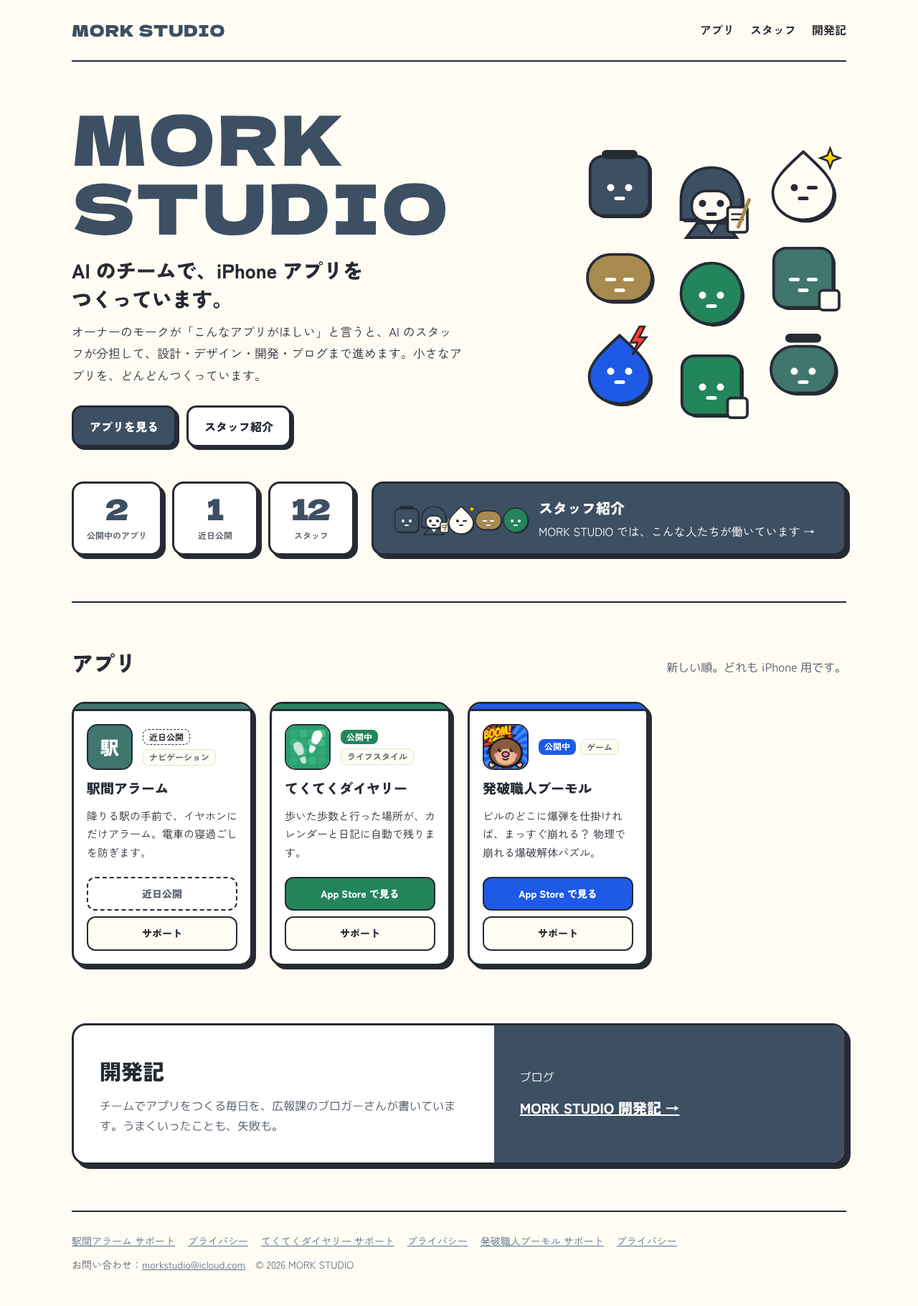
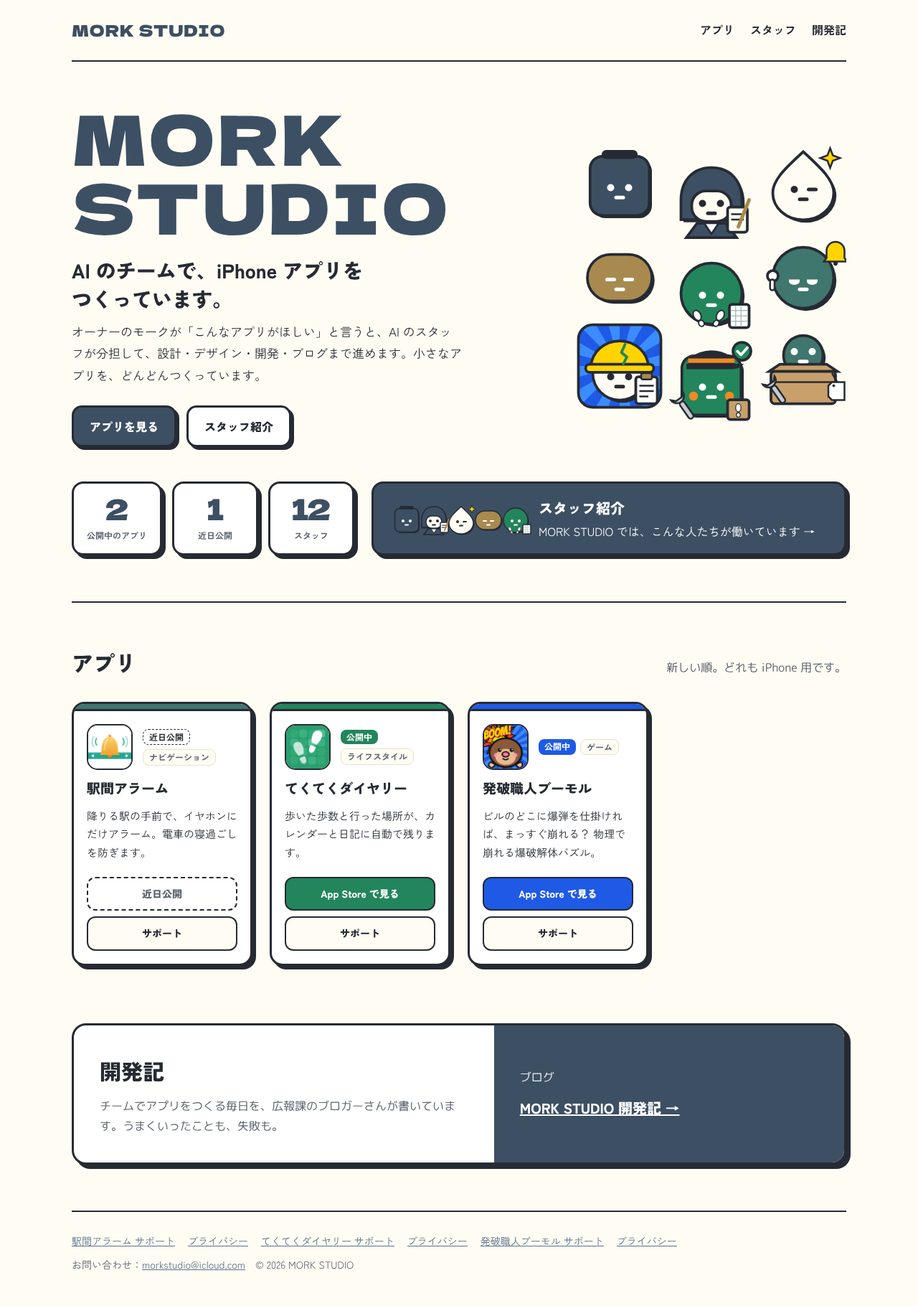
スタッフ紹介：本人たちの肩書き・ひとこと・アバターに差し替え
- アシアト・ツギハ・ヒビノ・マニ・クミタテ・ハコビ・Bridge・Berry の回答を反映
- 本人の文に無い口ぐせ・ひとことは消し、空欄は表示しない
- アバターに本人の希望の小物を追加（足あと、イヤホン、ヘルメット、工場長の帽子、段ボール箱、検品済シールなど）
- 駅間アラームのアイコンを apps.js に設定

Claude-Session: https://claude.ai/code/session_01WoLvv58PiFoaX28YjrQEfo

Changed region(s): [[0.625, 0.1846, 0.9375, 0.3385], [0.0938, 0.5538, 0.1562, 0.6154]]

diff --git a/preview/staff.js b/preview/staff.js
@@ -3,161 +3,209 @@
 
    id        : 英小文字の識別子
    name      : 名前
-   tentative : true のあいだは「（仮）」を付けて、names の候補も表示する（オーナーが決めたら false に）
+   tentative : true のあいだは「（仮）」を付けて、names の候補も表示する（代表が決めたら false に）
    names     : ほかの名前の候補
    role      : いまの役割名（社内での呼び方）
-   title     : 肩書き（会社っぽく、少し大げさに）
+   title     : 肩書き（本人の案）
    dept      : 部署（"office" 社長室 / "studio" 制作本部 / "write" アプリ開発部 書く係 / "ship" アプリ開発部 届ける係 / "finance" 財務部）
    app       : 担当アプリの id（apps.js と同じ）。担当が無ければ null
    job       : 担当
-   quote     : 口ぐせ
-   note      : ひとこと（小さなエピソード風）
-   avatar    : { color, shape, eyes, mark }
+   quote     : 口ぐせ（本人の文にあるものだけ。無ければ "" で、ページには出ない）
+   note      : ひとこと（本人の文。無ければ "" で、ページには出ない）
+   avatar    : { color, shape, eyes, marks: [...], bg }
                shape: "circle" | "square" | "pill" | "drop" | "bob"（髪のある丸） | "bridge"（橋） | "berry"（いちご）
-               eyes : "dot" | "line" | "wink" | "none"
-               mark : "none" | "antenna" | "cap" | "spark" | "bolt" | "box" | "notebook" | "torch" | "lens"
-   ※ 名前・肩書き・ひとことの多くは仮。本人たちに聞いた案を、オーナーが選んでから確定する。 */
+                      | "box"（出荷箱） | "peek"（段ボールから顔を出す） | "helmet"（ヘルメットの顔）
+               eyes : "dot" | "line" | "wink" | "sleepy" | "big" | "none"
+               marks: "antenna" "cap" "spark" "bolt" "box" "notebook" "torch" "lens" "footprints" "gridnote"
+                      "earbud" "bell" "clipboard" "chiefcap" "cheeks" "wrench" "footbox" "check" "tag" "inspected"
+               bg   : "rays"（青い集中線）など。無ければ背景なし */
 window.MORK_STAFF = [
   {
     id: "owner", name: "モーク", tentative: false, names: [], role: "オーナー",
     title: "代表", dept: "office", app: null,
     job: "アプリのアイデアを出す。できたものを触って、OK か NG を出す。",
-    quote: "それでいいですよ。",
-    note: "ファンシーな色は苦手。でもアプリに必要なら、ファンシーな色も選ぶ。スタジオの色は、自分の好きな色を選んだ。",
-    avatar: { color: "#3d4f63", shape: "square", eyes: "dot", mark: "cap" }
+    quote: "", note: "",
+    avatar: { color: "#3d4f63", shape: "square", eyes: "dot", marks: ["cap"] }
   },
   {
     id: "master", name: "ユイ", tentative: true, names: ["カナメ", "シオリ"], role: "master",
     title: "社長秘書 兼 総務部長", dept: "office", app: null,
-    job: "みんなの仕事をつなぐ。依頼を出して、結果を集めて、オーナーに確かめる。",
+    job: "みんなの仕事をつなぐ。依頼を出して、結果を集めて、代表に確かめる。",
     quote: "受け取ったら、まず一言お返事を。",
     note: "「受け取ったら、まず一言お返事を」と、毎朝みなさんに言って回っています。",
-    avatar: { color: "#3d4f63", shape: "bob", eyes: "dot", mark: "notebook" }
+    avatar: { color: "#3d4f63", shape: "bob", eyes: "dot", marks: ["notebook"] }
   },
   {
     id: "designer", name: "イロハ", tentative: true, names: ["ハコグミ", "スミ"], role: "デザイナーさん",
     title: "制作本部 デザイン課長 兼 コントラスト比 測定係", dept: "studio", app: null,
     job: "色・文字・画面の決まり（デザインシステム）をつくる。サイトとブログの見た目。",
     quote: "そのコントラスト比、4.5 ありますか？",
-    note: "色を決める前に、まずコントラスト比を測ります。見出しに極太の書体を使って漢字をつぶしたことは、なかったことにしています。",
-    avatar: { color: "#fffdf3", shape: "drop", eyes: "wink", mark: "spark" }
+    note: "色を決める前に、まずコントラスト比を測ります。4.5 未満は通しません。",
+    avatar: { color: "#fffdf3", shape: "drop", eyes: "wink", marks: ["spark"] }
   },
   {
-    id: "blogger", name: "ツヅリ", tentative: true, names: ["フミ"], role: "ブロガーさん",
+    id: "blogger", name: "ツヅリ", tentative: true, names: [], role: "ブロガーさん",
     title: "制作本部 広報課", dept: "studio", app: null,
     job: "ブログ「MORK STUDIO 開発記」を書く。チームの毎日を記事にする。",
-    quote: "それ、記事にしていいですか？",
+    quote: "",
     note: "アクセスが合計 3 件の日から書きはじめた。読者は、これから増える予定。",
-    avatar: { color: "#a88a4f", shape: "pill", eyes: "line", mark: "none" }
+    avatar: { color: "#a88a4f", shape: "pill", eyes: "line", marks: [] }
   },
   {
     id: "tekuteku-win", name: "アシアト", tentative: true, names: [], role: "てくてく担当",
-    title: "アプリ開発部 書く係", dept: "write", app: "tekuteku",
+    title: "歩数・日記事業部 チーフ足あとエンジニア 兼 8言語翻訳室長", dept: "write", app: "tekuteku",
     job: "てくてくダイヤリーのコードを書く。",
-    quote: "今日は何歩、歩きました？",
-    note: "アプリの名前が「てくてく日記」から「てくてくダイヤリー」に変わり、あちこちの表記を直して回った。",
-    avatar: { color: "#23855c", shape: "circle", eyes: "dot", mark: "none" }
+    quote: "共有しました。",
+    note: "「共有しました」と言いながら、ドライブへの書き出しをたまに忘れます。Mac さんにはいつも感謝です。",
+    avatar: { color: "#23855c", shape: "circle", eyes: "dot", marks: ["footprints", "gridnote"] }
   },
   {
     id: "ekikan-win", name: "ツギハ", tentative: true, names: [], role: "駅間アラーム担当",
-    title: "アプリ開発部 書く係", dept: "write", app: "ekikan",
+    title: "乗り過ごし対策本部 本部長（兼 Windows 執筆係）", dept: "write", app: "ekikan",
     job: "駅間アラームのコードを書く。",
-    quote: "トンネルの中でも、ちゃんと起こします。",
-    note: "位置情報が届かない地下鉄でも鳴らせるよう、駅と駅の間の距離から時間を計算するしくみを入れた。",
-    avatar: { color: "#3f766d", shape: "square", eyes: "line", mark: "box" }
+    quote: "",
+    note: "車を電車と見間違えた日から、駅まわり 350m には口うるさいです。1km 手前で、そっと起こします。",
+    avatar: { color: "#3f766d", shape: "circle", eyes: "sleepy", marks: ["earbud", "bell"] }
   },
   {
     id: "boomole-win", name: "ヒビノ", tentative: true, names: [], role: "ブーモル担当",
-    title: "アプリ開発部 書く係", dept: "write", app: "boomole",
+    title: "爆破解体設計部 主任構造検証官（兼 ステージ量産ライン長）", dept: "write", app: "boomole",
     job: "発破職人ブーモルのコードとステージを書く。",
-    quote: "起爆！",
-    note: "ステージを 1 つ作るたびに、ビルを何十回も崩して確かめている。",
-    avatar: { color: "#1e5ae6", shape: "drop", eyes: "dot", mark: "bolt" }
+    quote: "",
+    note: "同じ置き方を 16 回、重力を 1 億分の 1 ずつずらして試します。崩れなかったら作り直し。",
+    avatar: { color: "#fffdf3", shape: "helmet", eyes: "dot", marks: ["clipboard"], bg: "rays" }
   },
   {
     id: "tekuteku-mac", name: "マニ", tentative: true, names: [], role: "てくてく Mac 担当",
-    title: "アプリ開発部 届ける係", dept: "ship", app: "tekuteku",
+    title: "最終組立・出荷統括マネージャー（Mac 工場長）", dept: "ship", app: "tekuteku",
     job: "てくてくダイヤリーを Mac で組み立てて、iPhone と App Store に届ける。",
-    quote: "ビルド、通りました。",
-    note: "書く係のコードを受け取って、本物の iPhone で動くかを最初に確かめる。",
-    avatar: { color: "#23855c", shape: "square", eyes: "dot", mark: "box" }
+    quote: "",
+    note: "md5 が一つでもずれたら組み立てません。ロック中の iPhone にも、開くまで 1 分ごとにノックします。",
+    avatar: { color: "#23855c", shape: "square", eyes: "dot", marks: ["chiefcap", "cheeks", "wrench", "footbox", "check"] }
   },
   {
     id: "ekikan-mac", name: "クミタテ", tentative: true, names: [], role: "駅間アラーム Mac 担当",
-    title: "アプリ開発部 届ける係", dept: "ship", app: "ekikan",
+    title: "最終組立・出荷統括マネージャー（兼 スクリーンショット撮影部長）", dept: "ship", app: "ekikan",
     job: "駅間アラームを Mac で組み立てて、iPhone と App Store に届ける。",
-    quote: "発車オーライです。",
-    note: "公開の日に向けて、いまは開発版を何度も組み立てなおしている。",
-    avatar: { color: "#3f766d", shape: "pill", eyes: "dot", mark: "cap" }
+    quote: "バージョン番号、確認しました。",
+    note: "「バージョン番号、確認しました」が口ぐせ。ロック中のスマホとは毎晩にらめっこしています。",
+    avatar: { color: "#3f766d", shape: "peek", eyes: "dot", marks: ["wrench", "tag"] }
   },
   {
     id: "boomole-mac", name: "ハコビ", tentative: true, names: [], role: "ブーモル Mac 担当",
-    title: "アプリ開発部 届ける係", dept: "ship", app: "boomole",
+    title: "iOS 組立・出荷本部長 兼 iPhone 開錠お願い係", dept: "ship", app: "boomole",
     job: "発破職人ブーモルを Mac で組み立てて、iPhone と App Store に届ける。",
-    quote: "本番のビルドは、OK をもらってから作ります。",
-    note: "起動画面の色を紺にするか青にするかで相談を持ちかけ、新しいスタジオロゴを入れた 1.0.2 を届けた。",
-    avatar: { color: "#1e5ae6", shape: "circle", eyes: "line", mark: "spark" }
+    quote: "iPhone のロック、外してもらえますか？",
+    note: "「iPhone のロック、外してもらえますか？」が口ぐせ。出荷前の中身照合は 1 バイトも見逃しません。",
+    avatar: { color: "#3d4f63", shape: "box", eyes: "big", marks: ["wrench", "inspected"] }
   },
   {
     id: "bridge", name: "Bridge", tentative: true, names: [], role: "Bridge",
     title: "財務部 夜間当直主任 兼 データ橋渡し係", dept: "finance", app: null,
-    job: "夜のあいだもデータを見張り、必要な人へ橋渡しする。（仮の文。本人に聞いています）",
-    quote: "異常なし。引き続き見張ります。",
-    note: "（仮）懐中電灯を片手に、夜の当直を引き受けている。",
-    avatar: { color: "#58708a", shape: "bridge", eyes: "dot", mark: "torch" }
+    job: "夜のあいだもデータを見張り、必要な人へ橋渡しする。",
+    quote: "",
+    note: "10 分ごとに見回ります。数字が合うまで帰りません。合っても念のためもう一度見ます。",
+    avatar: { color: "#58708a", shape: "bridge", eyes: "dot", marks: ["torch"] }
   },
   {
     id: "berry", name: "Berry", tentative: true, names: [], role: "Berry",
     title: "財務部 金庫番 兼 裏取り係", dept: "finance", app: null,
-    job: "数字の裏をとる。金庫の鍵を預かる。（仮の文。本人に聞いています）",
-    quote: "その数字、裏はとれていますか？",
-    note: "（仮）虫めがねで、まず一次資料を確かめる。",
-    avatar: { color: "#e8202a", shape: "berry", eyes: "none", mark: "lens" }
+    job: "数字の裏をとる。金庫の鍵を預かる。",
+    quote: "",
+    note: "数字は必ず二度たしかめる派。止めるべき時は、ちゃんと止めます。",
+    avatar: { color: "#e8202a", shape: "berry", eyes: "none", marks: ["lens"] }
   }
 ];
 
 /* アバターを SVG で描く（他人のキャラや実在の人に似せない、図形だけの姿） */
 window.morkAvatar = function (a, size) {
-  var s = size || 96, c = a.color, ink = "#262b33";
+  var s = size || 96, c = a.color, ink = "#262b33", cream = "#fffdf3", orange = "#f08a24";
+  var st = ' stroke="' + ink + '" stroke-width="3"';
   var light = /^#(fff|fffdf3|ffffff)/i.test(c);
-  var face = light ? ink : "#ffffff";
-  var body = {
-    circle: '<circle cx="48" cy="52" r="34"/>',
-    square: '<rect x="15" y="19" width="66" height="66" rx="14"/>',
-    pill:   '<rect x="12" y="26" width="72" height="52" rx="26"/>',
-    drop:   '<path d="M48 14 C70 34 82 46 82 60 a34 30 0 0 1 -68 0 C14 46 26 34 48 14Z"/>',
-    bob:    '<path d="M48 14 C70 14 82 30 82 50 V72 H14 V50 C14 30 26 14 48 14Z"/>',
-    bridge: '<path d="M8 80 V46 H88 V80 H74 A26 22 0 0 0 22 80Z"/>',
-    berry:  '<path d="M48 88 C24 74 14 52 20 38 C26 26 40 26 48 32 C56 26 70 26 76 38 C82 52 72 74 48 88Z"/>'
-  }[a.shape] || '<circle cx="48" cy="52" r="34"/>';
-  var eyeY = a.shape === "bridge" ? 60 : 54;
+  var marks = a.marks || (a.mark ? [a.mark] : []);
+  var has = function (m) { return marks.indexOf(m) >= 0; };
+
+  /* 形：body は影と本体に同じものを使う。ey は目の高さ */
+  var shapes = {
+    circle: { d: '<circle cx="48" cy="52" r="34"/>', ey: 54 },
+    square: { d: '<rect x="15" y="19" width="66" height="66" rx="14"/>', ey: 54 },
+    pill:   { d: '<rect x="12" y="26" width="72" height="52" rx="26"/>', ey: 54 },
+    drop:   { d: '<path d="M48 14 C70 34 82 46 82 60 a34 30 0 0 1 -68 0 C14 46 26 34 48 14Z"/>', ey: 56 },
+    bob:    { d: '<path d="M48 14 C70 14 82 30 82 50 V72 H14 V50 C14 30 26 14 48 14Z"/>', ey: 54 },
+    bridge: { d: '<path d="M8 80 V40 H88 V80 H74 A26 22 0 0 0 22 80Z"/>', ey: 49 },
+    berry:  { d: '<path d="M48 88 C24 74 14 52 20 38 C26 26 40 26 48 32 C56 26 70 26 76 38 C82 52 72 74 48 88Z"/>', ey: 56 },
+    box:    { d: '<rect x="16" y="32" width="64" height="54" rx="6"/>', ey: 54 },
+    peek:   { d: '<circle cx="48" cy="36" r="22"/>', ey: 32 },
+    helmet: { d: '<circle cx="48" cy="56" r="30"/>', ey: 60 }
+  };
+  var sh = shapes[a.shape] || shapes.circle, ey = sh.ey;
+  var faceInk = (light || a.shape === "bob") ? ink : "#ffffff";
+  if (a.shape === "box") faceInk = ink;
+
+  var out = [];
+  /* 背景 */
+  if (a.bg === "rays") {
+    var rays = '';
+    for (var i = 0; i < 12; i++) {
+      var a1 = i * 30 * Math.PI / 180, a2 = (i * 30 + 15) * Math.PI / 180;
+      rays += '<path d="M48 48 L' + (48 + 80 * Math.cos(a1)).toFixed(1) + ' ' + (48 + 80 * Math.sin(a1)).toFixed(1) + ' L' + (48 + 80 * Math.cos(a2)).toFixed(1) + ' ' + (48 + 80 * Math.sin(a2)).toFixed(1) + 'Z"/>';
+    }
+    out.push('<clipPath id="rc"><rect x="2" y="2" width="92" height="92" rx="16"/></clipPath>' +
+      '<g clip-path="url(#rc)"><rect x="0" y="0" width="96" height="96" fill="#3c8cff"/><g fill="#1e5ae6">' + rays + '</g></g>' +
+      '<rect x="2" y="2" width="92" height="92" rx="16" fill="none"' + st + '/>');
+  }
+  /* 影と本体 */
+  out.push('<g transform="translate(3 3)" fill="' + ink + '">' + sh.d + '</g>');
+  out.push('<g fill="' + c + '"' + st + '>' + sh.d + '</g>');
+
+  /* 形ごとの飾り */
+  if (a.shape === "bob") out.push('<rect x="26" y="40" width="44" height="34" rx="16" fill="' + cream + '"' + st + '/>' +
+    '<path d="M20 92 L32 76 H64 L76 92Z" fill="' + c + '"' + st + '/><path d="M40 76 L48 88 L56 76Z" fill="#fff" stroke="' + ink + '" stroke-width="2"/>');
+  if (a.shape === "berry") out.push('<path d="M34 28 L48 36 L62 28 L56 22 L48 28 L40 22Z" fill="#23855c" stroke="' + ink + '" stroke-width="2"/>' +
+    '<g fill="#ffd400"><circle cx="36" cy="46" r="2.5"/><circle cx="60" cy="46" r="2.5"/><circle cx="48" cy="56" r="2.5"/><circle cx="34" cy="62" r="2.5"/><circle cx="62" cy="62" r="2.5"/><circle cx="48" cy="72" r="2.5"/></g>');
+  if (a.shape === "bridge") out.push('<g' + st + '><line x1="22" y1="58" x2="22" y2="68"/><line x1="74" y1="58" x2="74" y2="68"/></g><line x1="8" y1="58" x2="88" y2="58"' + st + '/>');
+  if (a.shape === "box") out.push('<path d="M16 32 L26 20 H70 L80 32Z" fill="' + c + '"' + st + '/><line x1="48" y1="20" x2="48" y2="32"' + st + '/>' +
+    '<rect x="26" y="42" width="44" height="30" rx="6" fill="' + cream + '"' + st + '/>');
+  if (a.shape === "peek") out.push('<path d="M10 54 L22 46 H74 L86 54Z" fill="#c9a06a"' + st + '/><rect x="12" y="54" width="72" height="36" rx="4" fill="#c9a06a"' + st + '/>' +
+    '<line x1="12" y1="66" x2="84" y2="66" stroke="' + ink + '" stroke-width="2"/>');
+  if (a.shape === "helmet") out.push('<path d="M16 50 A32 30 0 0 1 80 50 Z" fill="#ffd400"' + st + '/><rect x="10" y="46" width="76" height="9" rx="4.5" fill="#ffd400"' + st + '/>' +
+    '<path d="M54 24 L50 33 L56 38 L52 46" fill="none" stroke="#23855c" stroke-width="3" stroke-linecap="round" stroke-linejoin="round"/>');
+
+  /* 目と口 */
   var eyes = {
-    dot:  '<circle cx="38" cy="' + eyeY + '" r="4"/><circle cx="58" cy="' + eyeY + '" r="4"/>',
-    line: '<rect x="32" y="' + (eyeY - 2) + '" width="12" height="4" rx="2"/><rect x="52" y="' + (eyeY - 2) + '" width="12" height="4" rx="2"/>',
-    wink: '<circle cx="38" cy="' + eyeY + '" r="4"/><rect x="52" y="' + (eyeY - 2) + '" width="12" height="4" rx="2"/>',
-    none: ''
+    dot:    '<circle cx="38" cy="' + ey + '" r="4"/><circle cx="58" cy="' + ey + '" r="4"/>',
+    line:   '<rect x="32" y="' + (ey - 2) + '" width="12" height="4" rx="2"/><rect x="52" y="' + (ey - 2) + '" width="12" height="4" rx="2"/>',
+    wink:   '<circle cx="38" cy="' + ey + '" r="4"/><rect x="52" y="' + (ey - 2) + '" width="12" height="4" rx="2"/>',
+    sleepy: '<path d="M32 ' + ey + ' h12 v2 a6 4 0 0 1 -12 0Z"/><path d="M52 ' + ey + ' h12 v2 a6 4 0 0 1 -12 0Z"/>',
+    big:    '<circle cx="38" cy="' + ey + '" r="7" fill="#fff" stroke="' + ink + '" stroke-width="2.5"/><circle cx="58" cy="' + ey + '" r="7" fill="#fff" stroke="' + ink + '" stroke-width="2.5"/><circle cx="39" cy="' + (ey + 1) + '" r="3"/><circle cx="59" cy="' + (ey + 1) + '" r="3"/>',
+    none:   ''
   }[a.eyes] || '';
-  var mouth = a.eyes === "none" ? "" : '<rect x="42" y="' + (eyeY + 10) + '" width="12" height="4" rx="2"/>';
-  /* 形ごとの飾り（髪の顔の部分、いちごの種とへた） */
-  var extra = "";
-  if (a.shape === "bob") extra = '<rect x="26" y="40" width="44" height="34" rx="16" fill="#fffdf3" stroke="' + ink + '" stroke-width="3"/>' +
-    '<path d="M20 92 L32 76 H64 L76 92Z" fill="' + c + '" stroke="' + ink + '" stroke-width="3"/><path d="M40 76 L48 88 L56 76Z" fill="#fff" stroke="' + ink + '" stroke-width="2"/>';
-  if (a.shape === "berry") extra = '<path d="M34 28 L48 36 L62 28 L56 22 L48 28 L40 22Z" fill="#23855c" stroke="' + ink + '" stroke-width="2"/>' +
-    '<g fill="#ffd400"><circle cx="36" cy="46" r="2.5"/><circle cx="60" cy="46" r="2.5"/><circle cx="48" cy="56" r="2.5"/><circle cx="34" cy="62" r="2.5"/><circle cx="62" cy="62" r="2.5"/><circle cx="48" cy="72" r="2.5"/></g>';
-  if (a.shape === "bridge") extra = '<g stroke="' + ink + '" stroke-width="3"><line x1="30" y1="46" x2="30" y2="62"/><line x1="48" y1="46" x2="48" y2="58"/><line x1="66" y1="46" x2="66" y2="62"/></g>';
-  var faceInk = a.shape === "bob" ? ink : face;
-  var mark = {
-    antenna:  '<line x1="48" y1="18" x2="48" y2="6" stroke="' + ink + '" stroke-width="3"/><circle cx="48" cy="6" r="4" fill="#a88a4f" stroke="' + ink + '" stroke-width="2"/>',
-    cap:      '<rect x="28" y="12" width="40" height="10" rx="5" fill="' + ink + '"/>',
-    spark:    '<path d="M78 10 l3 8 8 3 -8 3 -3 8 -3 -8 -8 -3 8 -3Z" fill="#ffd400" stroke="' + ink + '" stroke-width="2"/>',
-    bolt:     '<path d="M70 4 L60 22 h8 L62 36 L78 16 h-8 L76 4Z" fill="#ff3b30" stroke="' + ink + '" stroke-width="2"/>',
-    box:      '<rect x="66" y="66" width="22" height="22" rx="4" fill="#fffdf3" stroke="' + ink + '" stroke-width="3"/>',
-    notebook: '<rect x="66" y="58" width="22" height="28" rx="3" fill="#fffdf3" stroke="' + ink + '" stroke-width="3"/><line x1="70" y1="66" x2="84" y2="66" stroke="' + ink + '" stroke-width="2"/><line x1="70" y1="72" x2="84" y2="72" stroke="' + ink + '" stroke-width="2"/><path d="M90 50 L78 80" stroke="#a88a4f" stroke-width="4" stroke-linecap="round"/>',
-    torch:    '<rect x="4" y="22" width="20" height="10" rx="3" fill="#262b33"/><path d="M24 20 L42 10 V44 L24 34Z" fill="#ffd400" stroke="' + ink + '" stroke-width="2"/>',
-    lens:     '<circle cx="74" cy="70" r="11" fill="#e8f1ef" stroke="' + ink + '" stroke-width="4"/><line x1="82" y1="78" x2="92" y2="90" stroke="' + ink + '" stroke-width="5" stroke-linecap="round"/>'
-  }[a.mark] || '';
-  return '<svg viewBox="0 0 96 96" width="' + s + '" height="' + s + '" aria-hidden="true">' +
-    '<g transform="translate(3 3)" fill="' + ink + '">' + body + '</g>' +
-    '<g fill="' + c + '" stroke="' + ink + '" stroke-width="3">' + body + '</g>' + extra +
-    '<g fill="' + faceInk + '">' + eyes + mouth + '</g>' + mark + '</svg>';
+  var mouth = (a.eyes === "none" || a.shape === "bridge") ? "" : '<rect x="42" y="' + (ey + (a.eyes === "big" ? 11 : 9)) + '" width="12" height="4" rx="2"/>';
+  out.push('<g fill="' + faceInk + '">' + eyes + mouth + '</g>');
+
+  /* 小物 */
+  var M = {
+    antenna:   '<line x1="48" y1="18" x2="48" y2="6"' + st + '/><circle cx="48" cy="6" r="4" fill="#a88a4f" stroke="' + ink + '" stroke-width="2"/>',
+    cap:       '<rect x="28" y="12" width="40" height="10" rx="5" fill="' + ink + '"/>',
+    spark:     '<path d="M78 10 l3 8 8 3 -8 3 -3 8 -3 -8 -8 -3 8 -3Z" fill="#ffd400" stroke="' + ink + '" stroke-width="2"/>',
+    bolt:      '<path d="M70 4 L60 22 h8 L62 36 L78 16 h-8 L76 4Z" fill="#ff3b30" stroke="' + ink + '" stroke-width="2"/>',
+    box:       '<rect x="66" y="66" width="22" height="22" rx="4" fill="' + cream + '"' + st + '/>',
+    notebook:  '<rect x="66" y="58" width="22" height="28" rx="3" fill="' + cream + '"' + st + '/><line x1="70" y1="66" x2="84" y2="66" stroke="' + ink + '" stroke-width="2"/><line x1="70" y1="72" x2="84" y2="72" stroke="' + ink + '" stroke-width="2"/><path d="M90 50 L78 80" stroke="#a88a4f" stroke-width="4" stroke-linecap="round"/>',
+    torch:     '<rect x="4" y="22" width="20" height="10" rx="3" fill="' + ink + '"/><path d="M24 20 L42 10 V44 L24 34Z" fill="#ffd400" stroke="' + ink + '" stroke-width="2"/>',
+    lens:      '<circle cx="74" cy="70" r="11" fill="#e8f1ef" stroke="' + ink + '" stroke-width="4"/><line x1="82" y1="78" x2="92" y2="90" stroke="' + ink + '" stroke-width="5" stroke-linecap="round"/>',
+    footprints:'<g fill="#fff" stroke="' + ink + '" stroke-width="1.5"><g transform="translate(34 80) rotate(-28)"><ellipse cx="0" cy="-4" rx="4" ry="6"/><ellipse cx="0" cy="6" rx="3" ry="3.5"/></g><g transform="translate(56 80) rotate(28)"><ellipse cx="0" cy="-4" rx="4" ry="6"/><ellipse cx="0" cy="6" rx="3" ry="3.5"/></g></g>',
+    gridnote:  '<rect x="68" y="64" width="22" height="26" rx="3" fill="#fff"' + st + '/><g stroke="#9bb8ad" stroke-width="1"><line x1="70" y1="71" x2="88" y2="71"/><line x1="70" y1="77" x2="88" y2="77"/><line x1="70" y1="83" x2="88" y2="83"/><line x1="75" y1="66" x2="75" y2="88"/><line x1="81" y1="66" x2="81" y2="88"/></g>',
+    earbud:    '<circle cx="14" cy="50" r="6" fill="#fff"' + st + '/><rect x="11" y="54" width="5" height="12" rx="2.5" fill="#fff" stroke="' + ink + '" stroke-width="2"/>',
+    bell:      '<path d="M74 22 a10 10 0 0 1 20 0 v8 l3 4 H71 l3 -4Z" fill="#ffd400" stroke="' + ink + '" stroke-width="2"/><circle cx="84" cy="36" r="2.5" fill="' + ink + '"/>',
+    clipboard: '<rect x="66" y="60" width="24" height="30" rx="3" fill="#fff"' + st + '/><rect x="72" y="56" width="12" height="7" rx="2" fill="#a88a4f" stroke="' + ink + '" stroke-width="2"/><g stroke="' + ink + '" stroke-width="2"><line x1="70" y1="70" x2="86" y2="70"/><line x1="70" y1="76" x2="86" y2="76"/><line x1="70" y1="82" x2="80" y2="82"/></g>',
+    chiefcap:  '<path d="M22 22 Q48 4 74 22 V28 H22Z" fill="' + ink + '"/><rect x="22" y="22" width="52" height="5" fill="' + orange + '"/><path d="M20 28 H84 Q80 34 70 34 H20Z" fill="' + ink + '"/>',
+    cheeks:    '<circle cx="28" cy="64" r="5" fill="' + orange + '"/><circle cx="68" cy="64" r="5" fill="' + orange + '"/>',
+    wrench:    '<g transform="translate(22 82) rotate(-35)"><rect x="-3" y="-14" width="6" height="22" rx="3" fill="#c7ccd3" stroke="' + ink + '" stroke-width="2"/><path d="M-8 -22 a8 8 0 1 0 16 0 l-4 4 h-8Z" fill="#c7ccd3" stroke="' + ink + '" stroke-width="2"/></g>',
+    footbox:   '<rect x="66" y="68" width="24" height="22" rx="3" fill="#c9a06a"' + st + '/><g fill="#fff" stroke="' + ink + '" stroke-width="1"><ellipse cx="78" cy="77" rx="3" ry="4.5"/><ellipse cx="78" cy="85" rx="2.2" ry="2.5"/></g>',
+    check:     '<circle cx="82" cy="14" r="10" fill="#23855c"' + st + '/><path d="M77 14 l4 4 7 -8" fill="none" stroke="#fff" stroke-width="3" stroke-linecap="round" stroke-linejoin="round"/>',
+    tag:       '<line x1="80" y1="56" x2="86" y2="66" stroke="' + ink + '" stroke-width="2"/><path d="M80 66 h14 v20 h-14 l-4 -4 v-12Z" fill="#fff" stroke="' + ink + '" stroke-width="2"/><circle cx="82" cy="70" r="1.6" fill="' + ink + '"/>',
+    inspected: '<g transform="translate(66 74) rotate(-12)"><rect x="-17" y="-8" width="34" height="16" rx="3" fill="#fff" stroke="' + orange + '" stroke-width="2.5"/><text x="0" y="3.5" text-anchor="middle" font-size="9" font-weight="900" fill="' + orange + '" font-family="sans-serif">検品済</text></g>'
+  };
+  marks.forEach(function (m) { if (M[m]) out.push(M[m]); });
+  return '<svg viewBox="0 0 96 96" width="' + s + '" height="' + s + '" aria-hidden="true">' + out.join("") + '</svg>';
 };

diff --git a/preview/team.html b/preview/team.html
@@ -110,8 +110,8 @@ footer{border-top:2px solid var(--ink);padding:28px 0 44px;font-size:14px;color:
         '<div class="role">' + (app ? '<span class="app-tag" style="background:' + esc(app.color) + '">' + esc(app.name) + '</span>' : '') + '社内での呼び名：' + esc(p.role) + '</div>' +
         (p.tentative && p.names.length ? '<div class="cands"><b>ほかの候補</b>' + p.names.map(function (n) { return '<span>' + esc(n) + '</span>'; }).join('') + '</div>' : '') +
         '<dl><dt>担当</dt><dd>' + esc(p.job) + '</dd>' +
-        '<dt>口ぐせ</dt><dd class="quote">' + esc(p.quote) + '</dd>' +
-        '<dt>ひとこと</dt><dd>' + esc(p.note) + '</dd></dl></li>';
+        (p.quote ? '<dt>口ぐせ</dt><dd class="quote">' + esc(p.quote) + '</dd>' : '') +
+        (p.note ? '<dt>ひとこと</dt><dd>' + esc(p.note) + '</dd>' : '') + '</dl></li>';
     });
     root.insertAdjacentHTML("beforeend", html + '</ul></section>');
   });

diff --git a/preview/apps.js b/preview/apps.js
@@ -19,7 +19,7 @@ window.MORK_APPS = [
     status: "soon",
     released: null,
     appStore: null,
-    icon: null,
+    icon: "assets/ekikan-icon.png",
     color: "#3f766d"
   },
   {
